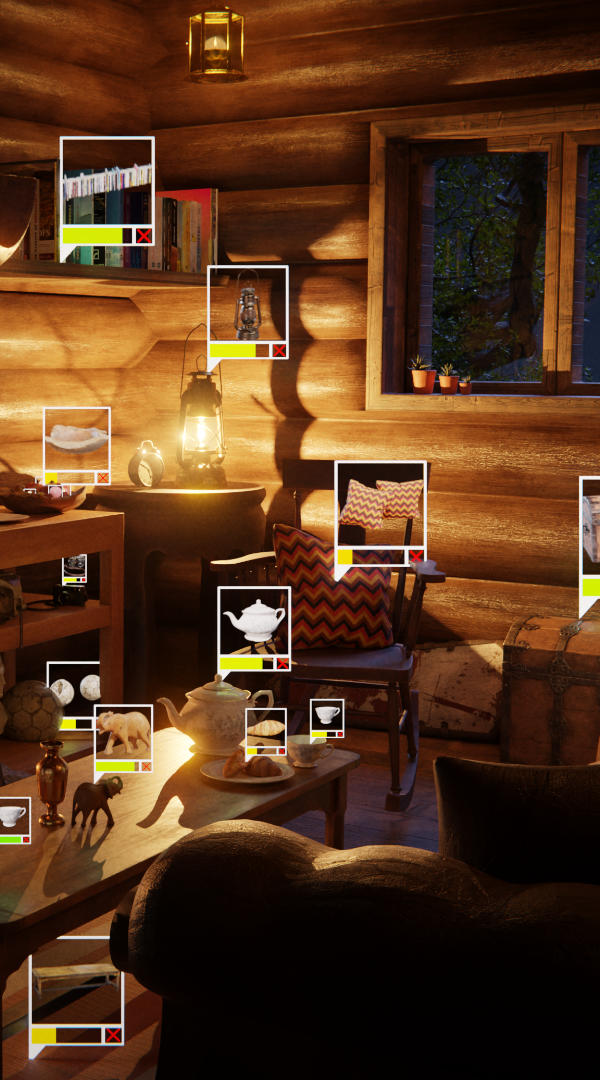
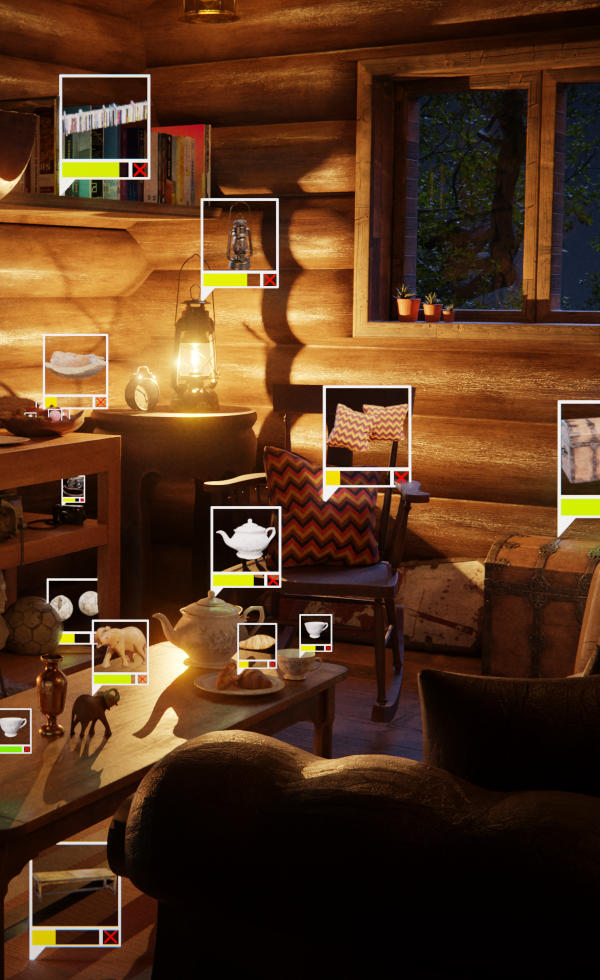
Testing animations

diff --git a/styles.css b/styles.css
@@ -6,9 +6,19 @@ body {
     background-image: linear-gradient(rgb(53, 53, 53), rgb(14, 14, 14));
     background-attachment: fixed;
     font-family: "Montserrat";
+    margin: auto;
+    width: 608px;
 }
 
 .heading-box {
+    /* animation-direction: forwards; */
+    animation-duration: .6s;
+    animation-delay: .2s;
+    animation-fill-mode: both;
+    animation-name: heading-popup;
+    transform-origin: 100% 0%;
+
+
     position: absolute;
     width: 50%;
     top: 30px;
@@ -16,9 +26,16 @@ body {
     padding-right: 20px;
 
     border-radius: 20px;
-    background-color: rgba(34, 34, 34, 0.781);
+    background-color: rgba(14, 9, 5, 0.863);
     box-shadow: 10px 10px 20px black;
 }
+
+
+@keyframes heading-popup {
+    from {scale: 0%}
+    to {scale: 100%}
+}
+
 
 .heading-text {
     font-weight: bold;
@@ -33,9 +50,26 @@ body {
 }
 
 .heading-backdrop {
+    animation: forwards;
+    animation-duration: 1s;
+    animation-name: popin;
     position: relative;
     width: 100%;
     border-radius: 10px;
+    clip-path: circle(176% at 10rem -30rem);
+}
+
+.heading-backdrop-wrapper {
+    filter: drop-shadow(10px 10px 14px black);
+}
+
+@keyframes popin {
+    from {
+        clip-path: circle(66% at 10rem -30rem)
+    }
+    to {
+        clip-path: circle(176% at 10rem -30rem)
+    }
 }
 
 .box {

diff --git a/index.html b/index.html
@@ -11,13 +11,17 @@
 
 <body>
   <div class="img-text">
-    <img class="heading-backdrop" src="/media/Cabin vertical.jpg">
+    <div class="heading-backdrop-wrapper">
+      <img class="heading-backdrop" src="/media/Cabin vertical.jpg">
+    </div>
     <div class="heading-box">
       <h2 class="heading-text">Download over 2800 free assets with the click of a button</h2>
     </div>
   </div>
+  <br>
 
-  <video class="media" controls loop src="https://user-images.githubusercontent.com/59890307/228583026-3f8bad07-d5fc-4393-9f33-31c7dfc8c204.mp4"></video>
+  <video class="media" controls loop
+    src="https://user-images.githubusercontent.com/59890307/228583026-3f8bad07-d5fc-4393-9f33-31c7dfc8c204.mp4"></video>
   <div class="box">
     <p>Lorem, ipsum dolor sit amet consectetur adipisicing elit. Similique sunt quasi nostrum autem officiis harum
       dolore quaerat quam ex! Nobis assumenda sint aspernatur beatae, fugiat voluptas quis consequatur incidunt sequi?
